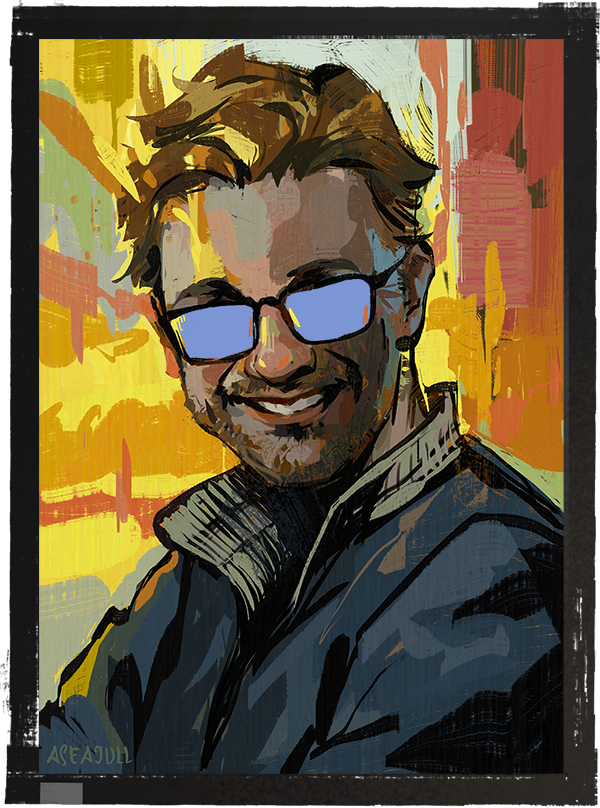
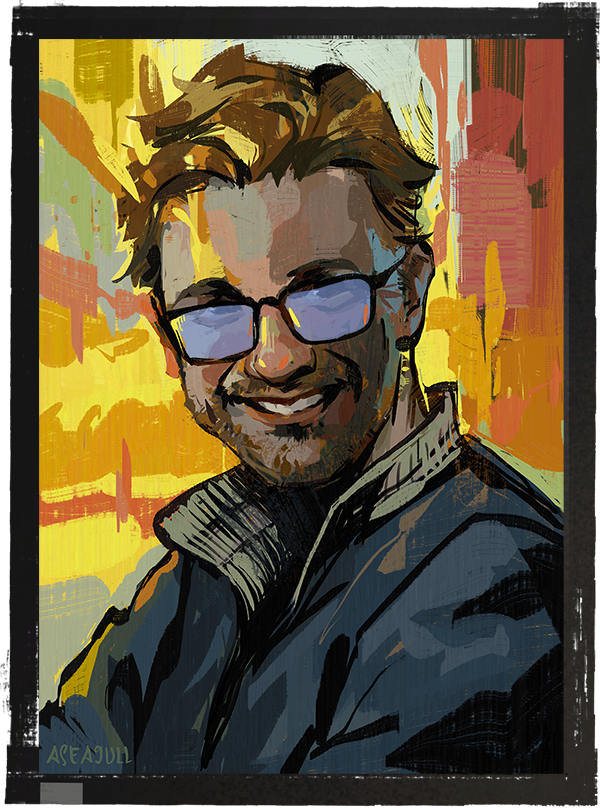
Remove leftbrain/rightbrain, add glasses reflections to portrait

Changed region(s): [[0.48, 0.3403, 0.63, 0.4332], [0.3, 0.3713, 0.42, 0.4641]]

diff --git a/index.html b/index.html
@@ -319,9 +319,9 @@
       <p style="padding:0px"></p>     
       <div class="outer">
     		<ul id="over" class="links">
-    				<li><a href="https://turkeedurk.ee/art/videos"><img class="invert" src="https://turkeedurk.ee/img/Art-Trunic.png" height="95px"><span><img class="superimpose" src="https://turkeedurk.ee/img/Disco-RightBrain.png" width="320" alt="Artwork" /></span></a></li>
-    				<li><a href="https://turkeedurk.ee/construction"><img class="invert" src="https://turkeedurk.ee/img/Engineering-Trunic.png" height="95px"><span><img class="superimpose" src="https://turkeedurk.ee/img/Disco-LeftBrain.png" width="320" alt="Engineering" /></span></a></li>
-    				<li><a href="https://turkeedurk.ee/construction"><img class="invert" src="https://turkeedurk.ee/img/Extras-Trunic.png" height="95px"><span><img class="superimpose" src="https://turkeedurk.ee/img/Disco.png" width="320" alt="Extras" /></span></a></li>
+    				<li><a href="https://turkeedurk.ee/art/videos"><img class="invert" src="https://turkeedurk.ee/img/Art-Trunic.png" height="95px"><span><img class="superimpose" src="https://turkeedurk.ee/img/Disco-Art.png" width="320" alt="Artwork" /></span></a></li>
+    				<li><a href="https://turkeedurk.ee/construction"><img class="invert" src="https://turkeedurk.ee/img/Engineering-Trunic.png" height="95px"><span><img class="superimpose" src="https://turkeedurk.ee/img/Disco-Glasses.png" width="320" alt="Engineering" /></span></a></li>
+    				<li><a href="https://turkeedurk.ee/construction"><img class="invert" src="https://turkeedurk.ee/img/Extras-Trunic.png" height="95px"><span><img class="superimpose" src="https://turkeedurk.ee/img/Disco-Glasses.png" width="320" alt="Extras" /></span></a></li>
     				<li><a href="https://turkeedurk.ee/construction"><img class="invert" src="https://turkeedurk.ee/img/About-Trunic.png" height="95px"><span><img  class="superimpose" src="https://turkeedurk.ee/img/Disco-Glasses.png" width="320" alt="About" /></span></a></li>
 		    </ul>
       </div>
